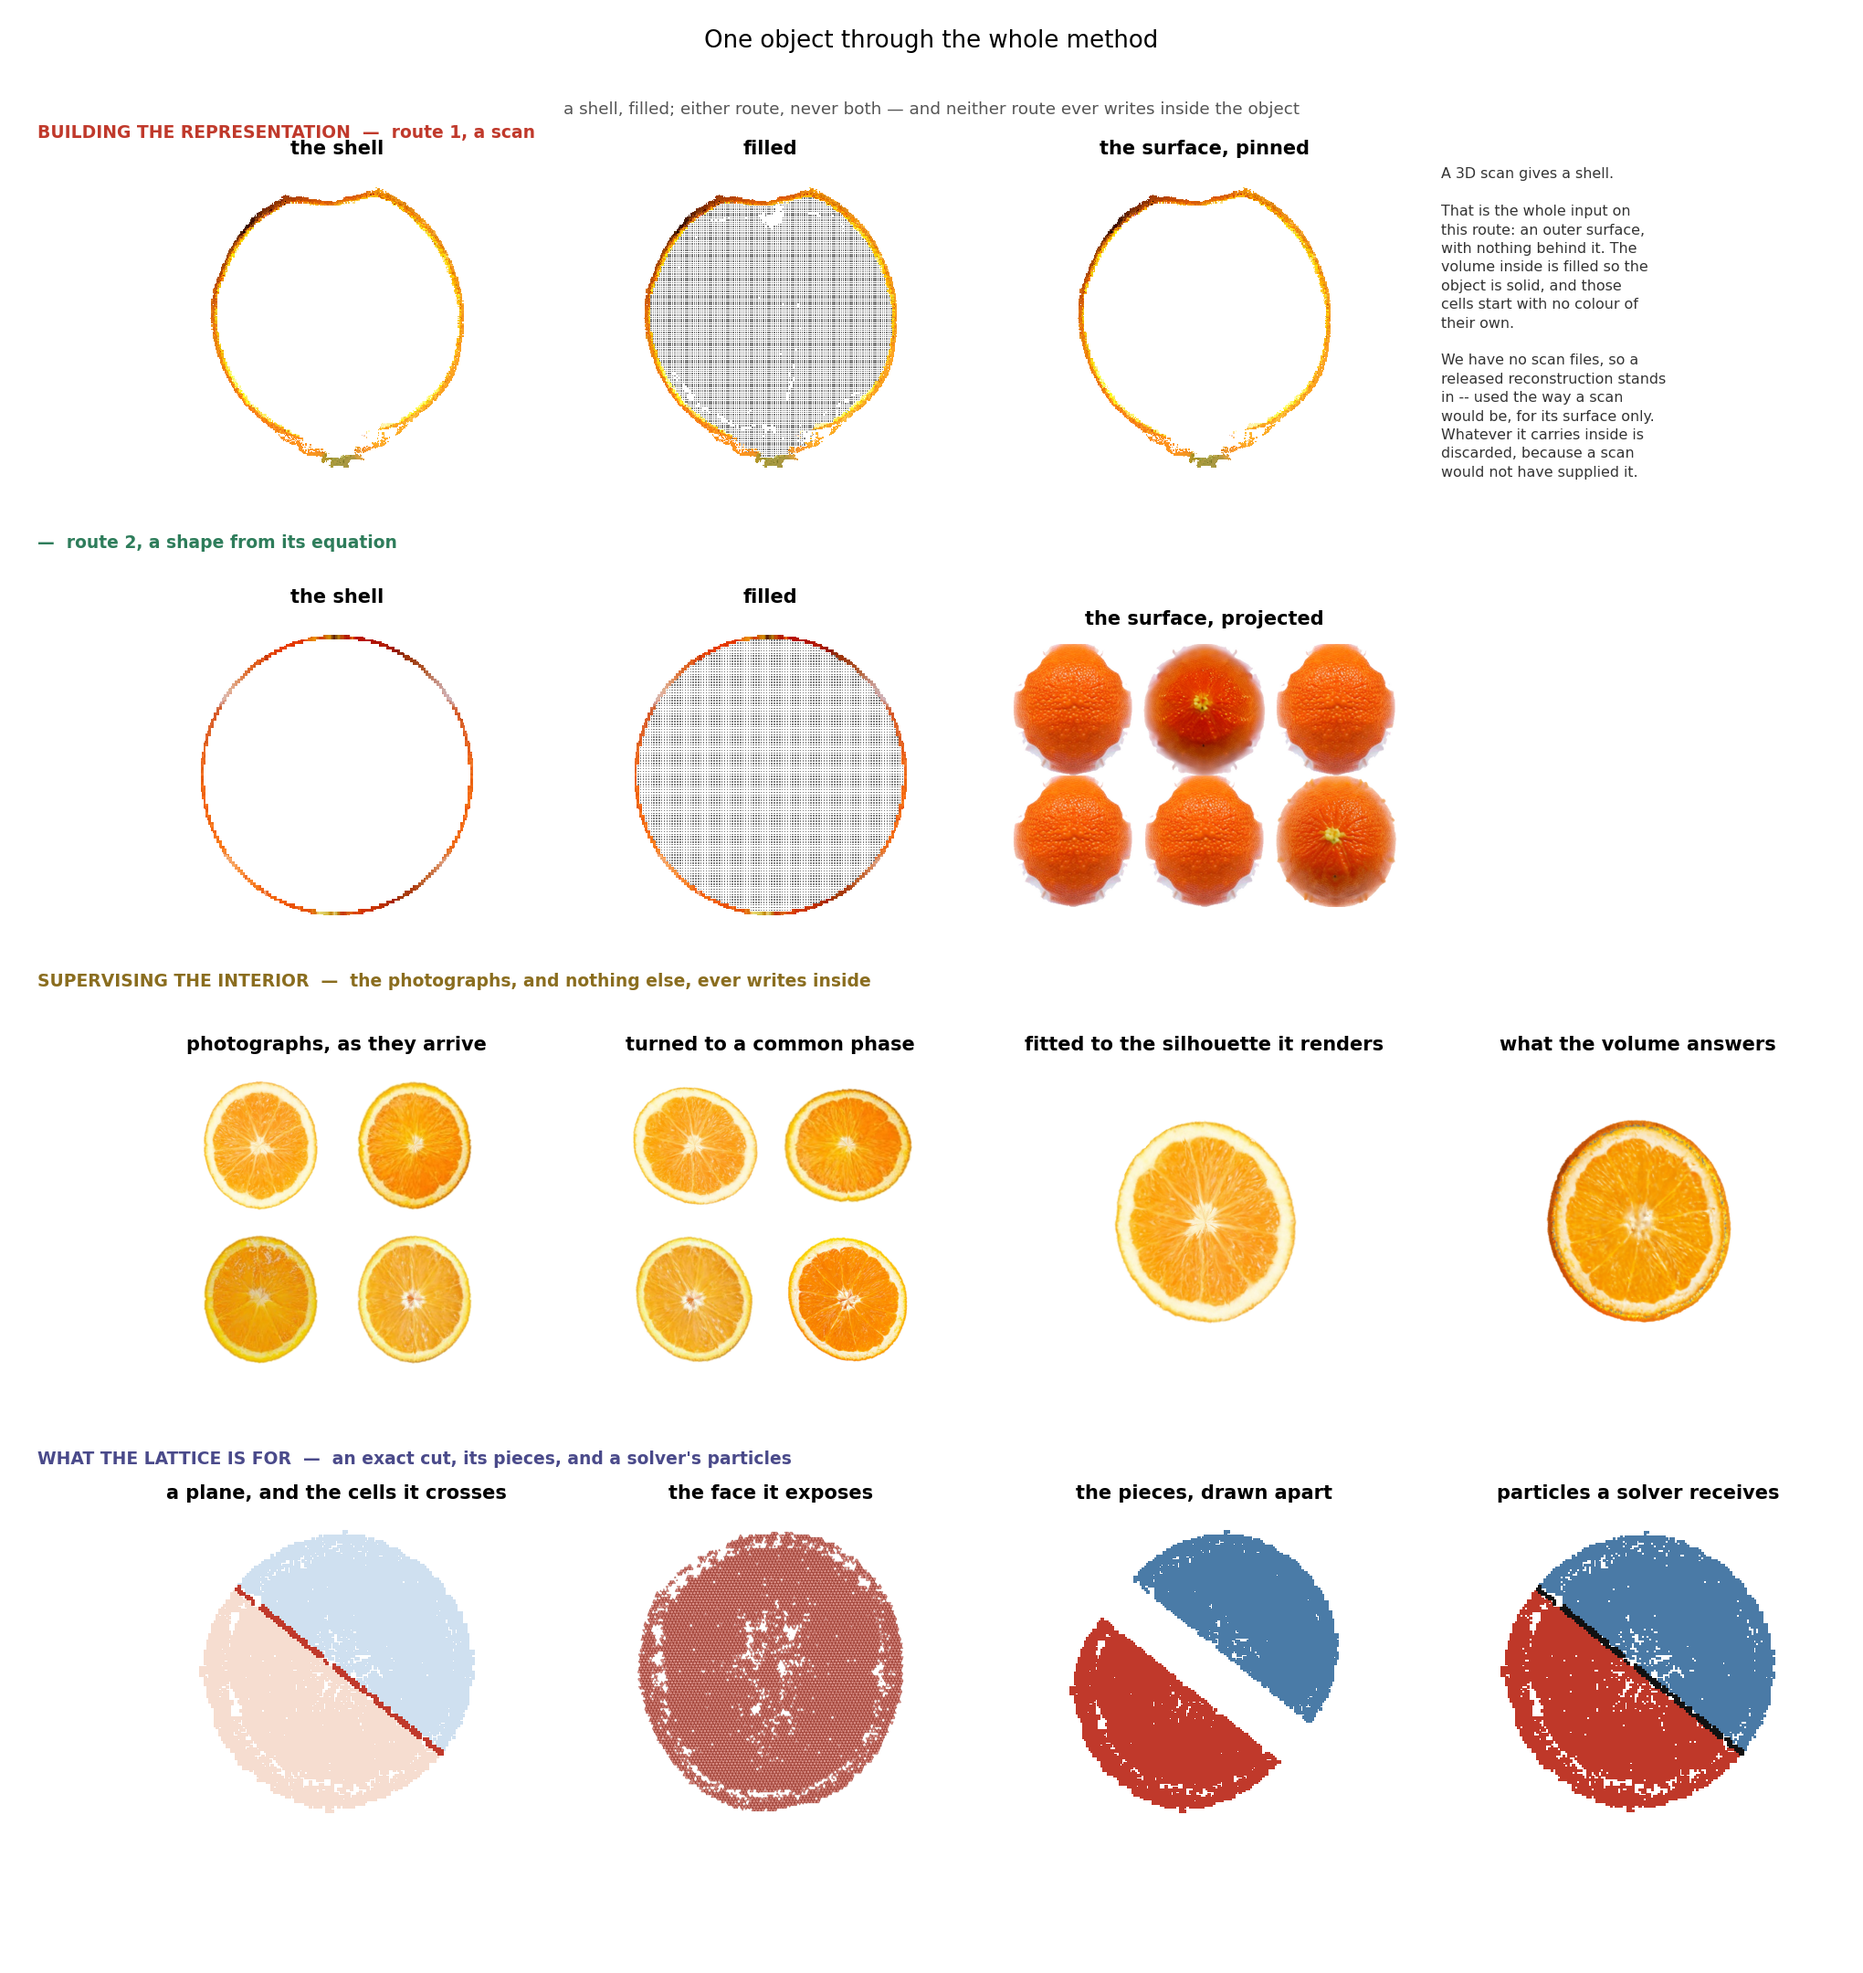
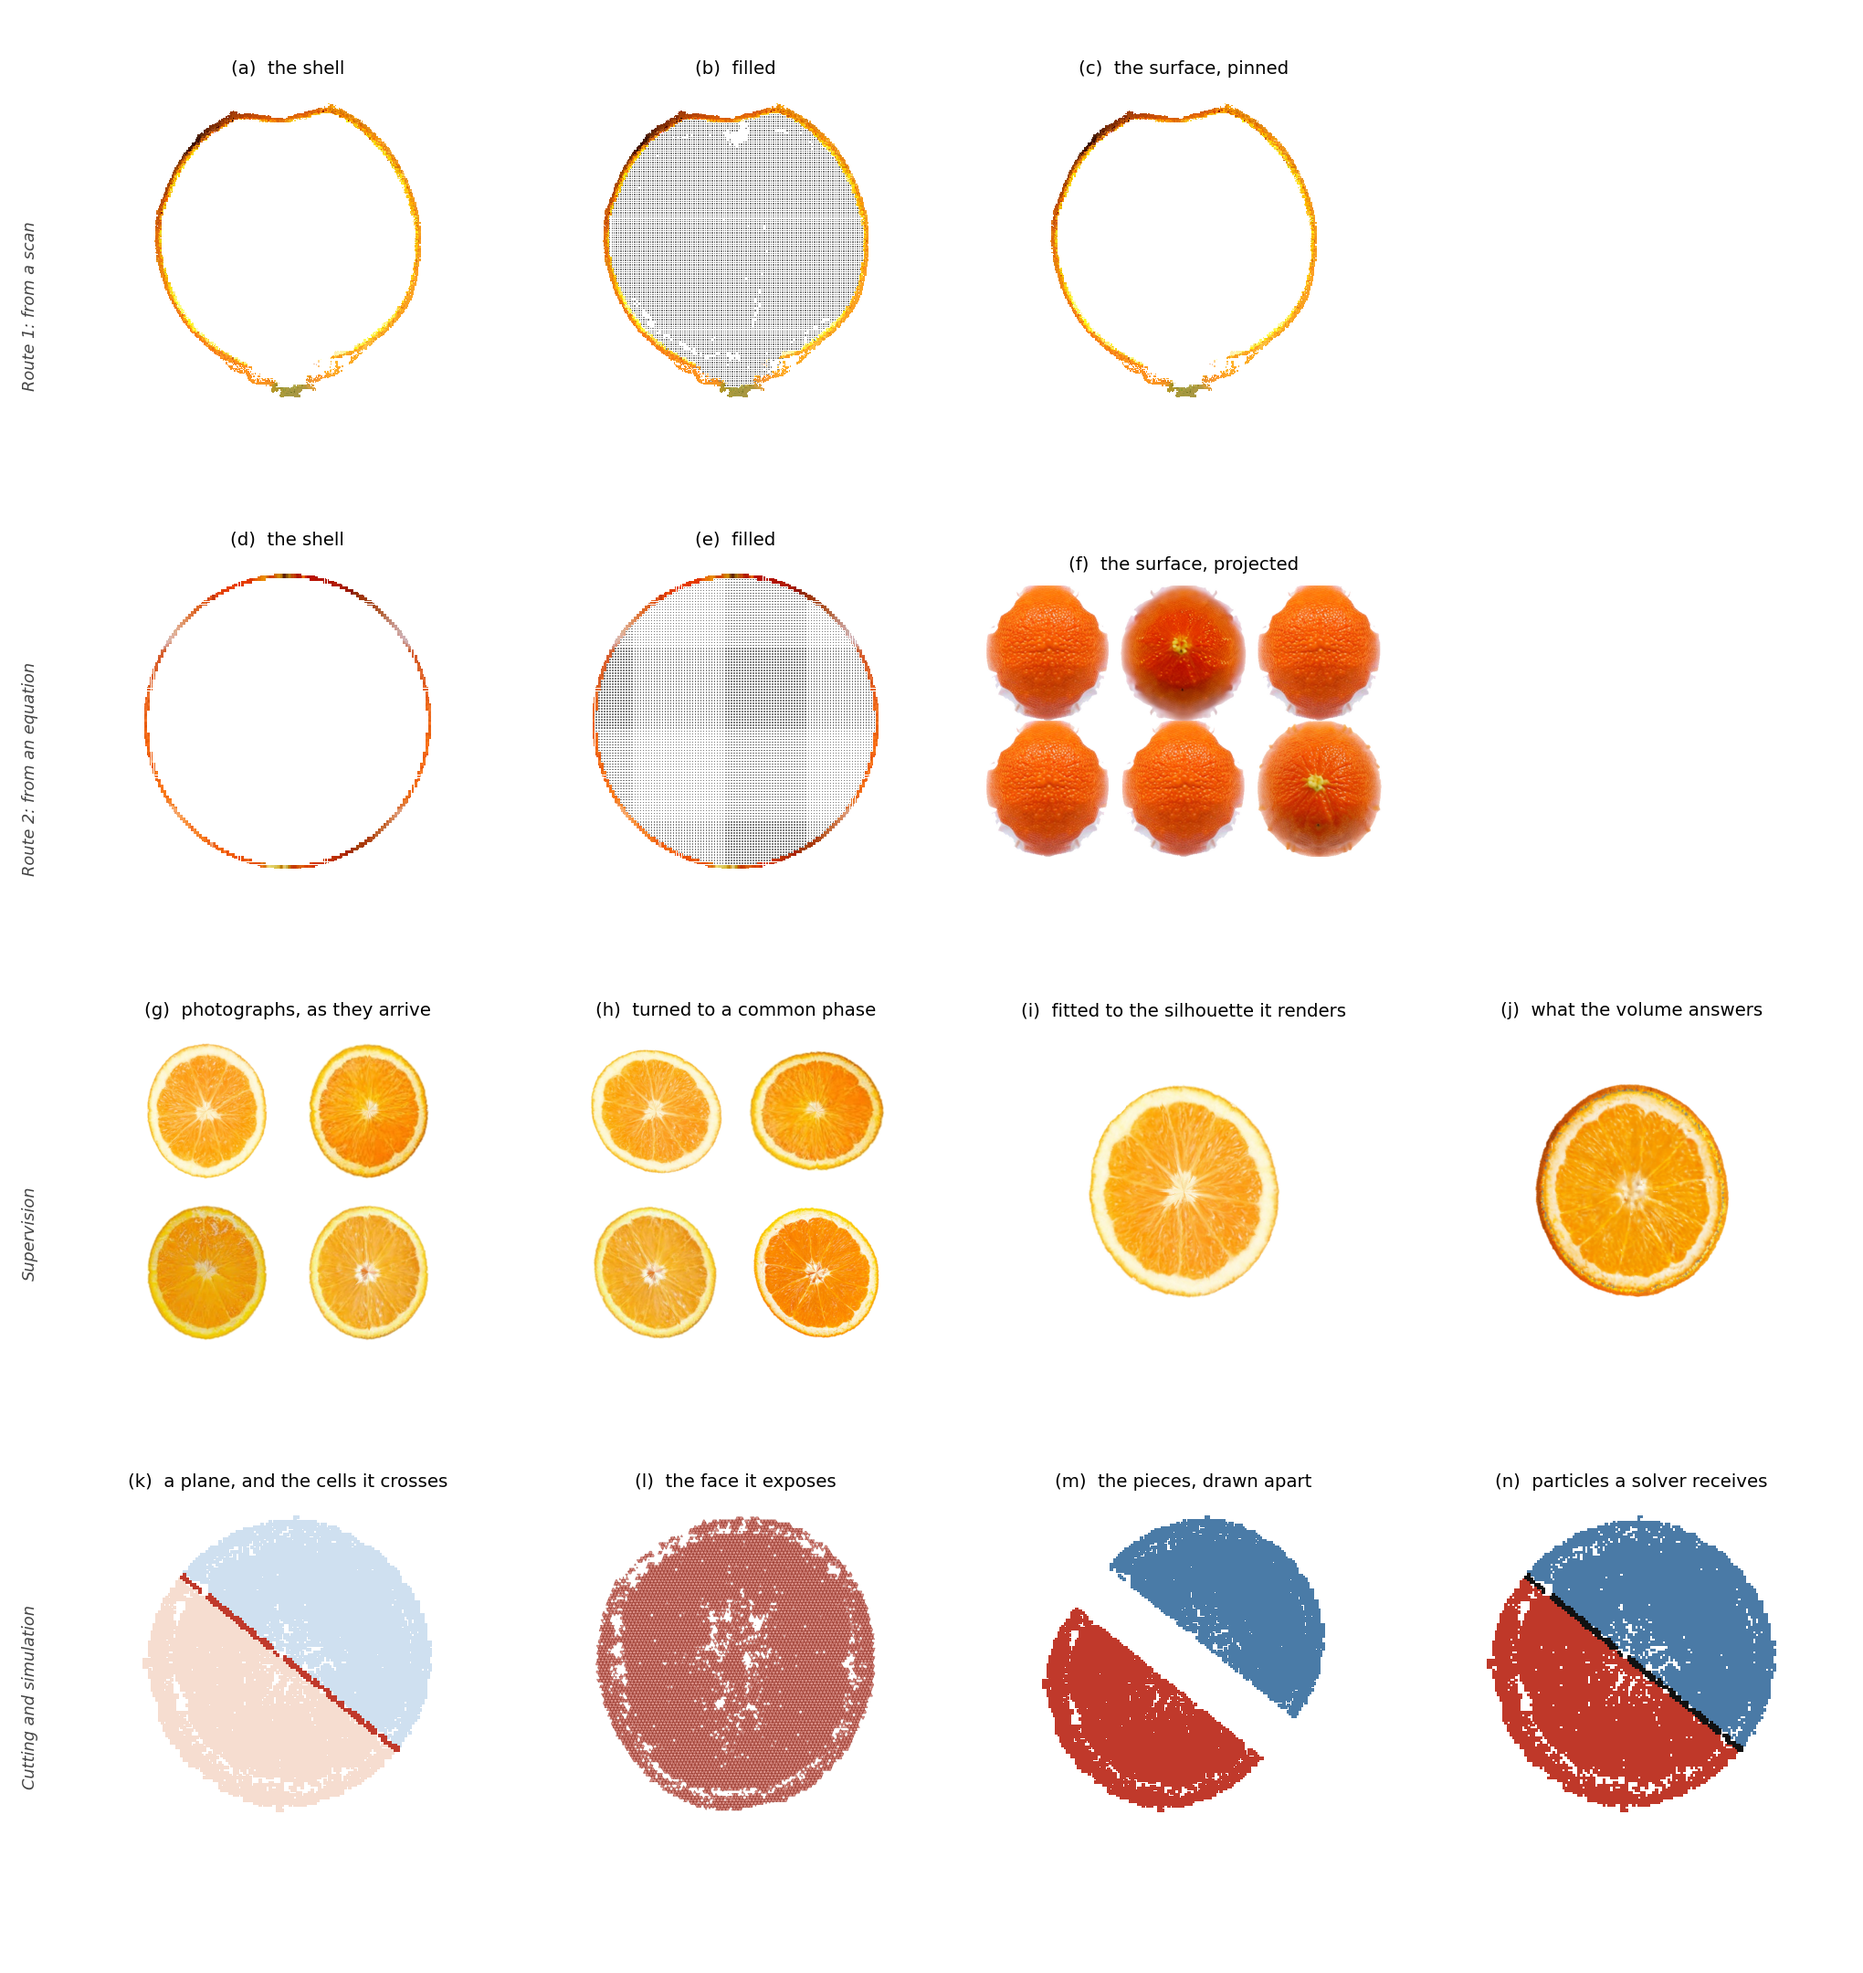
Figure 2 in paper layout: lettered panels, no prose in the frame
Panels are (a) to (n) with a short label; the explanatory block in the fourth column and the
subtitle under the title are gone, and the band names are italic row labels in the left margin
rather than headings inside the plot area.

diff --git a/code/figures/pipeline_fig.py b/code/figures/pipeline_fig.py
@@ -77,11 +77,16 @@ def slab(ax, xyz, rgb, axis=2, frac=0.5, half=0.02, s=0.6):
     return int(m.sum())
 
 
+_PANEL = [0]
+
+
 def panel(ax, title, sub=None):
     """The title, and nothing under it. A figure that has to explain itself inside the frame
     is competing with its own caption; the sub-line each panel used to carry is dropped rather
     than shortened, and what it said belongs to the prose."""
-    ax.set_title(title, fontsize=10, pad=10, weight="bold")
+    _PANEL[0] += 1
+    tag = "abcdefghijklmn"[_PANEL[0] - 1]
+    ax.set_title(f"({tag})  {title}", fontsize=9.5, pad=8)
 
 
 def main(obj, out):
@@ -95,7 +100,7 @@ def main(obj, out):
 
     fig = plt.figure(figsize=(13.6, 14.4))
     gs = fig.add_gridspec(4, 4, hspace=0.46, wspace=0.10,
-                          left=0.075, right=0.985, top=0.912, bottom=0.075)
+                          left=0.045, right=0.985, top=0.955, bottom=0.075)
 
     # --- route 1: the shell a scan gives, then filled ---------------------------------
     ax = fig.add_subplot(gs[0, 0])
@@ -123,17 +128,7 @@ def main(obj, out):
           + (f"\n(mean drift {drift:.4f} over 200 iterations)" if drift is not None else ""))
 
     ax = fig.add_subplot(gs[0, 3]); ax.set_axis_off()
-    ax.text(0.0, 1.02,
-            "A 3D scan gives a shell.\n\n"
-            "That is the whole input on\nthis route: an outer surface,\n"
-            "with nothing behind it. The\nvolume inside is filled so the\n"
-            "object is solid, and those\ncells start with no colour of\n"
-            "their own.\n\n"
-            "We have no scan files, so a\nreleased reconstruction stands\n"
-            "in -- used the way a scan\nwould be, for its surface only.\n"
-            "Whatever it carries inside is\ndiscarded, because a scan\n"
-            "would not have supplied it.",
-            transform=ax.transAxes, fontsize=7.6, va="top", color="#333", linespacing=1.45)
+    
 
     # --- route 2: the same three beats, with no scan at all ---------------------------
     if have2:
@@ -161,21 +156,16 @@ def main(obj, out):
         ax.set_axis_off()
         panel(ax, "the surface, projected", f"{len(six)} views of the outside, onto the same cells")
 
-    for y, lab, col in ((0.930, "BUILDING THE REPRESENTATION  \u2014  route 1, a scan", "#c0392b"),
-                        (0.722, "\u2014  route 2, a shape from its equation", "#2e7d5b"),
-                        (0.500, "SUPERVISING THE INTERIOR  \u2014  the photographs, and nothing "
-                         "else, ever writes inside", "#8a6d1f"),
-                        (0.258, "WHAT THE LATTICE IS FOR  \u2014  an exact cut, its pieces, and "
-                         "a solver's particles", "#4a4a8a")):
-        fig.text(0.02, y, lab, fontsize=9, weight="bold", color=col)
+    for y, lab in ((0.845, "Route 1: from a scan"),
+                   (0.610, "Route 2: from an equation"),
+                   (0.375, "Supervision"),
+                   (0.140, "Cutting and simulation")):
+        fig.text(0.016, y, lab, fontsize=8.5, style="italic", color="#444",
+                 rotation=90, ha="center", va="center")
     band_supervision(fig, gs, 2, obj, FN, None, conf)
     band_downstream(fig, gs, 3, xyz1, rgb1, lvl1, hc1)
 
-    fig.suptitle("One object through the whole method",
-                 fontsize=12.5, y=0.985)
-    fig.text(0.5, 0.942, "a shell, filled; either route, never both \u2014 and neither route "
-             "ever writes inside the object",
-             fontsize=8.8, color="#555", ha="center")
+    fig.suptitle("", fontsize=1)
     os.makedirs(os.path.dirname(os.path.abspath(out)), exist_ok=True)
     fig.savefig(out, dpi=150, facecolor="white")
     print(f"  -> {out}")
